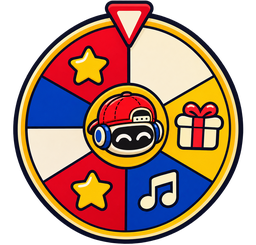
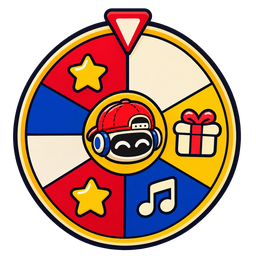
v713: icones do Roboterista Paul (roleta, album, stars, perfil, passe, contagem, loop) nos lugares do LEIA-ME
Claude-Session: https://claude.ai/code/session_017Ekti3kM2Vxnu27Y3eqQNw

diff --git a/js/aluno.js b/js/aluno.js
@@ -80,6 +80,7 @@ import { entradaNova } from './entrada.js';
 import * as PROG from './progresso-nuvem.js';
 import { corSrc, stkSrc, LOGO_PAUL } from './paul-cor.js';
 import { arteDoPaul } from './paul-dicas.js';
+import { iconePaul } from './icone-paul.js';
 
 const app = document.getElementById('app');
 const NAME_KEY = 'beaterista-aluno-nome';
@@ -246,7 +247,7 @@ function estudosView(view) {
   const chips = h('div', { class: 'hj-exp' }, h('h2', {}, 'estude agora'),
     h('div', { class: 'hj-big' }, tile('#/dicionario', 'lendo-partitura', 'dicionário musical', 'busque um termo', 'dicionario'), tile('#/estudos/aulas', 'professor', 'robôterista ensina', 'teoria, bateria, teclado e violão', 'aulas'), duplo, tile('#/jogos/relatorio', 'oculos', 'jogos ensinam', 'pra que serve cada jogo', 'ensinam')),
     h('div', { class: 'hj-chips' }, ...[['#/estudos/dicas', 'todas as dicas'], ['#/estudos/curiosidades', 'todas as curiosidades']].map(([href, nome]) => h('a', { class: `hj-chip${lock(href) ? ' locked' : ''}`, href, 'aria-label': lock(href) ? `${nome}, só pra alunos com código` : nome }, `${nome}${lock(href) ? ' 🔒' : ''}`))));
-  const sorte = h('div', { class: 'hj-roleta' }, h('span', { 'aria-hidden': 'true' }, '🎡'), h('b', { class: 'hj-rt' }, 'a cada 15 ★ você ganha um giro na roleta'));
+  const sorte = h('div', { class: 'hj-roleta' }, h('span', { 'aria-hidden': 'true' }, iconePaul('roleta-paul', 34)), h('b', { class: 'hj-rt' }, 'a cada 15 ★ você ganha um giro na roleta'));
   view.append(h('div', { class: 'pad-x hj', style: 'display:grid;gap:11px' }, h('div', { class: 'hj-top' }, h('h1', {}, 'ESTUDOS'), h('span', {}, `${DIAS[new Date().getDay()]}, bora?`)), hero, chips, sorte));
   import('./figurinhas/estrelas.js').then(async (E) => { try { const P = await import('./kids/progress.js'); const me = P.active(); if (!me) return; const f = E.faltamParaRoleta(E.estrelasTotais(me.id)); const el = sorte.querySelector('.hj-rt'); if (el && f) el.textContent = `faltam ${f} ★ pra roleta`; } catch { /* sem o álbum */ } }).catch(() => {});
 }
@@ -414,7 +415,7 @@ function abrirCodigo() {
     const inp = h('input', { class: 'field al-cod', type: 'text', maxlength: 14, autocomplete: 'off', autocapitalize: 'characters', spellcheck: 'false', placeholder: 'CÓDIGO DE ACESSO', 'aria-label': 'Código de acesso' });
     const entrar = async () => { msg.textContent = 'conferindo…'; try { if (await CODE.entrar(inp.value)) { AC.definir(true); msg.textContent = 'liberado! 🎉'; setTimeout(close, 700); } else msg.textContent = CODE.msgFalha(); } catch { msg.textContent = 'sem internet agora. tente de novo.'; } };
     inp.addEventListener('keydown', (e) => { if (e.key === 'Enter') entrar(); });
-    return h('div', { class: 'sheet-body' }, h('p', { class: 'muted' }, 'digite o código que a professora Bea te passou.'), h('div', { class: 'al-lock-row' }, inp, h('button', { class: 'btn primary', type: 'button', onclick: entrar }, 'liberar')), msg,
+    return h('div', { class: 'sheet-body' }, h('div', { class: 'ic-passe-topo' }, iconePaul('passe-beaterista', 56)), h('p', { class: 'muted' }, 'digite o código que a professora Bea te passou.'), h('div', { class: 'al-lock-row' }, inp, h('button', { class: 'btn primary', type: 'button', onclick: entrar }, 'liberar')), msg,
       h('p', { class: 'muted' }, 'ainda não tem? ', h('a', { href: '#/lojinha', onclick: close }, 'veja a Lojinha')));
   });
 }
@@ -513,7 +514,7 @@ function shell(name) {
       const roleta = r.name === 'album' && r.parts && r.parts[0] === 'Pacotes';
       let pend = 0; try { pend = FRpend() || 0; } catch { pend = 0; }
       const aba = (href, nome, on, ic, badge) => h('a', { href, role: 'tab', 'aria-selected': String(on), class: `chip-btn${on ? ' on' : ''}`, 'aria-label': badge ? `${nome}, ${badge} pra abrir` : nome }, h('span', { class: 'al-ic', 'aria-hidden': 'true' }, ic), nome, badge ? h('span', { class: 'al-badge', 'aria-hidden': 'true' }, String(badge)) : null);
-      view.prepend(h('div', { class: 'al-subnav', role: 'tablist', 'aria-label': 'Álbum, stars e perfil' }, aba('#/album', 'álbum', r.name === 'album' && !roleta, '📔'), aba('#/album/Pacotes', 'stars', roleta, '⭐', pend), aba('#/perfil', 'perfil', r.name === 'perfil', '📸')));
+      view.prepend(h('div', { class: 'al-subnav', role: 'tablist', 'aria-label': 'Álbum, stars e perfil' }, aba('#/album', 'álbum', r.name === 'album' && !roleta, iconePaul('album-figurinhas', 26)), aba('#/album/Pacotes', 'stars', roleta, iconePaul('estrela-recompensa', 26), pend), aba('#/perfil', 'perfil', r.name === 'perfil', iconePaul('perfil-camera', 26))));
     }
     if (voltarA && !/^#\/(jogos\/[^/?]+|ritmo|paulta|kids\/[^/?]+|dicas\/[^/?]+)/.test(location.hash)) { const vA = voltarA; view.prepend(h('a', { class: 'al-voltar', href: vA.hash, onclick: () => { voltouNaFaixa = true; } }, `‹ voltar para ${vA.nome}`)); } // dentro de um jogo já existe o botão flutuante "‹ jogos"
     cleanup = typeof c === 'function' ? c : null;

diff --git a/js/views/toque.js b/js/views/toque.js
@@ -3,6 +3,7 @@
 // (vira ritmo do Beat Lab ou partitura). É um rascunho do que você tocou, não transcrição perfeita.
 import * as SEG from '../figurinhas/segredos-palco.js';
 import { h, icon } from '../util.js';
+import { iconePaul } from '../icone-paul.js';
 import * as store from '../store.js';
 import * as B from '../beats.js';
 import * as N from '../notation.js';
@@ -173,7 +174,7 @@ export function mount(host) {
           h('button', { class: 'bl-step', type: 'button', 'aria-label': 'menos 5 BPM', onclick: () => setBpm(c.bpm - 5) }, '−'), h('output', { class: 'bl-bpm' }, String(c.bpm)),
           h('button', { class: 'bl-step', type: 'button', 'aria-label': 'mais 5 BPM', onclick: () => setBpm(c.bpm + 5) }, '+'),
           h('span', { class: 'tp-lab' }, 'BPM')),
-        h('div', { class: 'chips lib-tabs tk-opts', role: 'group', 'aria-label': 'Opções da gravação' }, chip('count', 'contagem ao gravar'), chip('grid', 'ao compasso')),
+        h('div', { class: 'chips lib-tabs tk-opts', role: 'group', 'aria-label': 'Opções da gravação' }, chip('count', h('span', { class: 'ic-lbl' }, iconePaul('contagem-quatro-tempos', 22), 'contagem ao gravar')), chip('grid', 'ao compasso')),
         ),
       status,
       take ? h('section', { class: 'card pad tk-take' },
@@ -181,7 +182,7 @@ export function mount(host) {
         ...take.bars.map((b) => { const f = h('figure', { class: 'cb-bar' }); f.innerHTML = N.toSVG(N.layout(b, { width: 340, full: true })); return f; }),
         h('div', { class: 'row tk-actions' },
           h('button', { class: `btn${listening ? ' primary' : ''}`, type: 'button', onclick: () => { if (listening) { stopAll(); listening = false; drawPanel(); return; } stopLoop(); listening = true; playDoc(doc, { loop: loopOn, withClick: true, onEnd: () => { listening = false; drawPanel(); } }); drawPanel(); } }, icon(listening ? 'stop' : 'play', 14), listening ? ' parar' : ' ouvir na partitura'),
-          h('button', { class: 'btn small', type: 'button', 'aria-pressed': String(loopOn), onclick: () => { loopOn = !loopOn; drawPanel(); } }, loopOn ? '↻ em loop ✓' : '↻ em loop'),
+          h('button', { class: 'btn small', type: 'button', 'aria-pressed': String(loopOn), onclick: () => { loopOn = !loopOn; drawPanel(); } }, h('span', { class: 'ic-lbl' }, iconePaul('loop-reproducao', 20), loopOn ? 'em loop ✓' : 'em loop')),
           take.bars.length === 1 && !document.documentElement.classList.contains('aluno-on') ? h('button', { class: 'btn', type: 'button', onclick: async (e) => { // o Beat Lab só existe no app da Bea
             const btn = e.currentTarget; const b = take.bars[0]; const beat = { id: 'novo', name: 'Toquei na bateria', style: 'Meus', bpm: take.bpm, steps: 16, kind: 'groove', rows: b.rows, mine: true };
             const r = await store.upsert('beat', null, { beat }); await store.upsert('beat', r.id, { beat: { ...beat, id: r.id, recId: r.id } });

diff --git a/sw.js b/sw.js
@@ -1,7 +1,7 @@
 // Service worker: cacheia só o "casco" do app (código + marca). Nenhum dado do usuário passa por aqui.
-const VERSION = 'beaterista-v712';
+const VERSION = 'beaterista-v713';
 const SHELL = [
-  'js/paulta/livre.js', 'js/dicas-aluno.js', 'js/boas-vindas.js', 'js/inicio-perfil.js', 'js/palavras-bloqueadas.js',
+  'js/paulta/livre.js', 'js/dicas-aluno.js', 'js/boas-vindas.js', 'js/inicio-perfil.js', 'js/icone-paul.js', 'js/palavras-bloqueadas.js',
   'js/paulta/mapa.js',
   'js/figurinhas/share-ui.js', 'js/views/perfil.js', 'js/acesso.js',
   'css/cara-musical.css', 'js/jogos/cara-musical/tela.js', 'js/jogos/cara-musical/corrida.js', 'js/jogos/cara-musical/regras.js', 'js/jogos/cara-musical/elenco.js', 'js/jogos/cara-musical/perguntas.js', 'js/jogos/cara-musical/falas.js', 'js/jogos/cara-musical/fichas.js', 'js/jogos/cara-musical/dados-extra.js', 'js/jogos/cara-musical/contestar.js', 'js/jogos/cara-musical/midia.js', 'js/jogos/cara-musical/online-regras.js', 'js/jogos/cara-musical/online-tela.js',
@@ -282,7 +282,15 @@ const EXTRA = [
   'assets/paul/arte-album.webp',
   'assets/paul/arte-estudos.webp',
   'assets/paul/arte-por-que-paul.webp',
+  'assets/inicio/roleta.png',
   'assets/paul/colorido/paul-agua.webp',
+  'assets/icones-paul/roleta-paul.webp',
+  'assets/icones-paul/album-figurinhas.webp',
+  'assets/icones-paul/estrela-recompensa.webp',
+  'assets/icones-paul/perfil-camera.webp',
+  'assets/icones-paul/passe-beaterista.webp',
+  'assets/icones-paul/contagem-quatro-tempos.webp',
+  'assets/icones-paul/loop-reproducao.webp',
   'assets/paul/colorido/paul-baquetas-pra-cima.webp',
   'assets/paul/colorido/paul-bateria.webp',
   'assets/paul/colorido/paul-bau.webp',

diff --git a/js/views/treinos.js b/js/views/treinos.js
@@ -3,6 +3,7 @@
 // Escuta (ditado): o app toca um compasso e você escolhe qual das 4 partituras foi.
 // Montar (ditado de células): o app toca 4 tempos e você monta o compasso tocando nas células; 5 vidas e recorde.
 import { h, icon } from '../util.js';
+import { iconePaul } from '../icone-paul.js';
 import * as store from '../store.js';
 import { audio, click, snare, perfToCtx } from '../audio.js';
 import { voz, getSom, setSom, SONS, VELOCIDADES, BPM_MAX, velocidadeDe } from '../toca-som.js';
@@ -220,7 +221,7 @@ export function leitura(host, opts = {}) {
         h('button', { class: 'btn small', type: 'button', onclick: () => { micBlocked = false; micErro = null; draw(false); } }, '🎙 tentar o microfone de novo')) : null,
       h('div', { class: 'tr-modos', role: 'group', 'aria-label': 'Como começar' },
         h('button', { class: 'tr-card', type: 'button', onclick: listen }, icone('fone', 'tr-ic'), h('b', {}, 'ouvir'), h('small', {}, 'escuta o ritmo')),
-        h('button', { class: 'tr-card go', type: 'button', onclick: start }, icone('play', 'tr-ic'), h('b', {}, 'contagem'), h('small', {}, 'conta 4 e aí você toca'))),
+        h('button', { class: 'tr-card go', type: 'button', onclick: start }, iconePaul('contagem-quatro-tempos', 40), h('b', {}, 'contagem'), h('small', {}, 'conta 4 e aí você toca'))),
       livre ? h('div', { class: 'row tr-actions' }, h('button', { class: 'btn ghost', type: 'button', onclick: () => draw(true) }, '🔀 outro compasso')) : null,
       status, pad, testeMic, quick, summary, history('leitura')].filter(Boolean));
   };

diff --git a/js/views/lojinha-vitrine.js b/js/views/lojinha-vitrine.js
@@ -1,6 +1,7 @@
 // Vitrine da Lojinha Beaterista (desenho da Bea): materiais em cartões + Passe Beaterista. Textos, imagens e links em js/loja-config.js.
 // Tocar na capa abre as fotos grandes do material (o que tem dentro), com o botão Adquirir.
 import { h } from '../util.js';
+import { iconePaul } from '../icone-paul.js';
 import { toast } from '../ui.js';
 import { PASSE, PRODUTOS, COMBO, SECOES, AVISO_DIGITAL, DENTRO } from '../loja-config.js';
 import { precoPasse } from '../passe-preco.js';
@@ -72,6 +73,6 @@ export function vitrine(secao = '') {
     h('div', { class: 'lj-secs' }, ...SECOES.map(tile)),
     h('p', { class: 'lj-digital' }, h('b', {}, '📄 materiais digitais. '), AVISO_DIGITAL),
     PASSE.link ? h('article', { class: 'lj-passe' }, h('img', { src: PASSE.img, alt: '', loading: 'lazy' }),
-      h('div', { class: 'lj-pm' }, h('h3', {}, PASSE.nome), h('ul', {}, ...PASSE.info.map((x) => h('li', {}, x)))),
+      h('div', { class: 'lj-pm' }, h('h3', {}, iconePaul('passe-beaterista', 30), PASSE.nome), h('ul', {}, ...PASSE.info.map((x) => h('li', {}, x)))),
       h('div', { class: 'lj-pp' }, h('span', { class: 'lj-preco' }, precoPasse().atual), precoPasse().oferta ? h('small', { class: 'lj-de' }, `de ${precoPasse().de} · oferta até ${precoPasse().ate}`) : null, botao('Adquirir passe', PASSE, 'amarelo'))) : null);
 }

diff --git a/css/jogos.css b/css/jogos.css
@@ -1905,3 +1905,13 @@ body.bv-aberta { overflow: hidden; }
 .fgc-pc svg,.fgc-op svg{width:100%;height:100%;max-height:70px}
 .fg-wrap .tr-count{text-shadow:0 2px 0 #000}
 
+
+/* ícones do Robôterista Paul nos botões e cards */
+.ic-paul { display: inline-block; object-fit: contain; vertical-align: middle; flex: none; }
+.ic-lbl { display: inline-flex; align-items: center; gap: 6px; }
+.al-subnav .al-ic { display: inline-flex; align-items: center; } .al-subnav .al-ic .ic-paul { margin-right: 2px; }
+.ic-passe-topo { display: flex; justify-content: center; }
+.lj-pm h3 .ic-paul { margin-right: 8px; vertical-align: -8px; }
+.tr-card.go .ic-paul { margin-bottom: 2px; }
+.hj-roleta > span { display: inline-flex; }
+.lj-passe .lj-pm h3 .ic-paul { width: 30px !important; height: 30px !important; max-width: none; margin: 0 8px 0 0; vertical-align: -8px; display: inline-block; }

diff --git a/js/icone-paul.js b/js/icone-paul.js
@@ -1,0 +1,5 @@
+// Ícones do Robôterista Paul (assets/icones-paul/*.webp, 192 px com fundo transparente): usados nos botões (20–36 px) e cards (48–64 px).
+import { h } from './util.js';
+export const ICONES_PAUL = ['roleta-paul', 'album-figurinhas', 'estrela-recompensa', 'perfil-camera', 'passe-beaterista', 'contagem-quatro-tempos', 'loop-reproducao'];
+/** `<img>` decorativo do ícone `nome` com `tam` px. */
+export const iconePaul = (nome, tam = 24) => h('img', { class: 'ic-paul', src: `assets/icones-paul/${nome}.webp`, alt: '', width: tam, height: tam, draggable: 'false', 'aria-hidden': 'true' });
